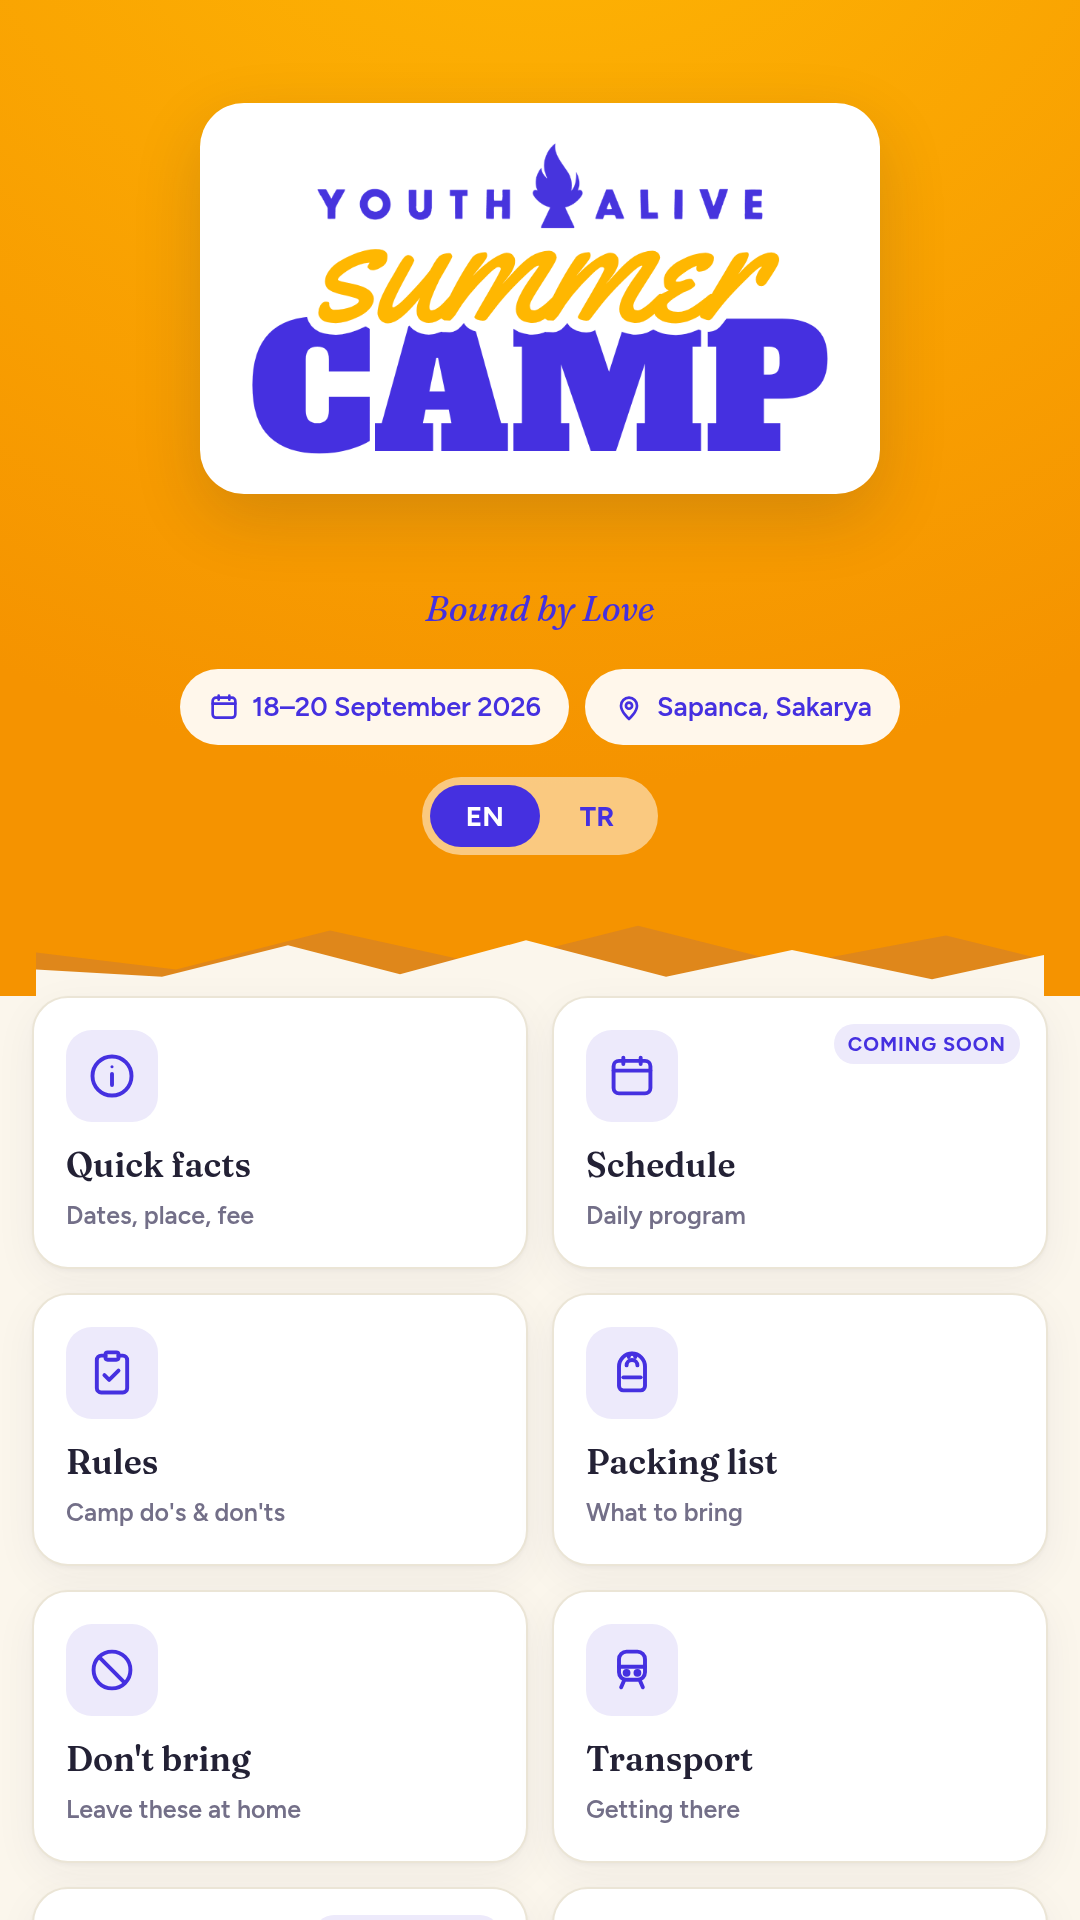
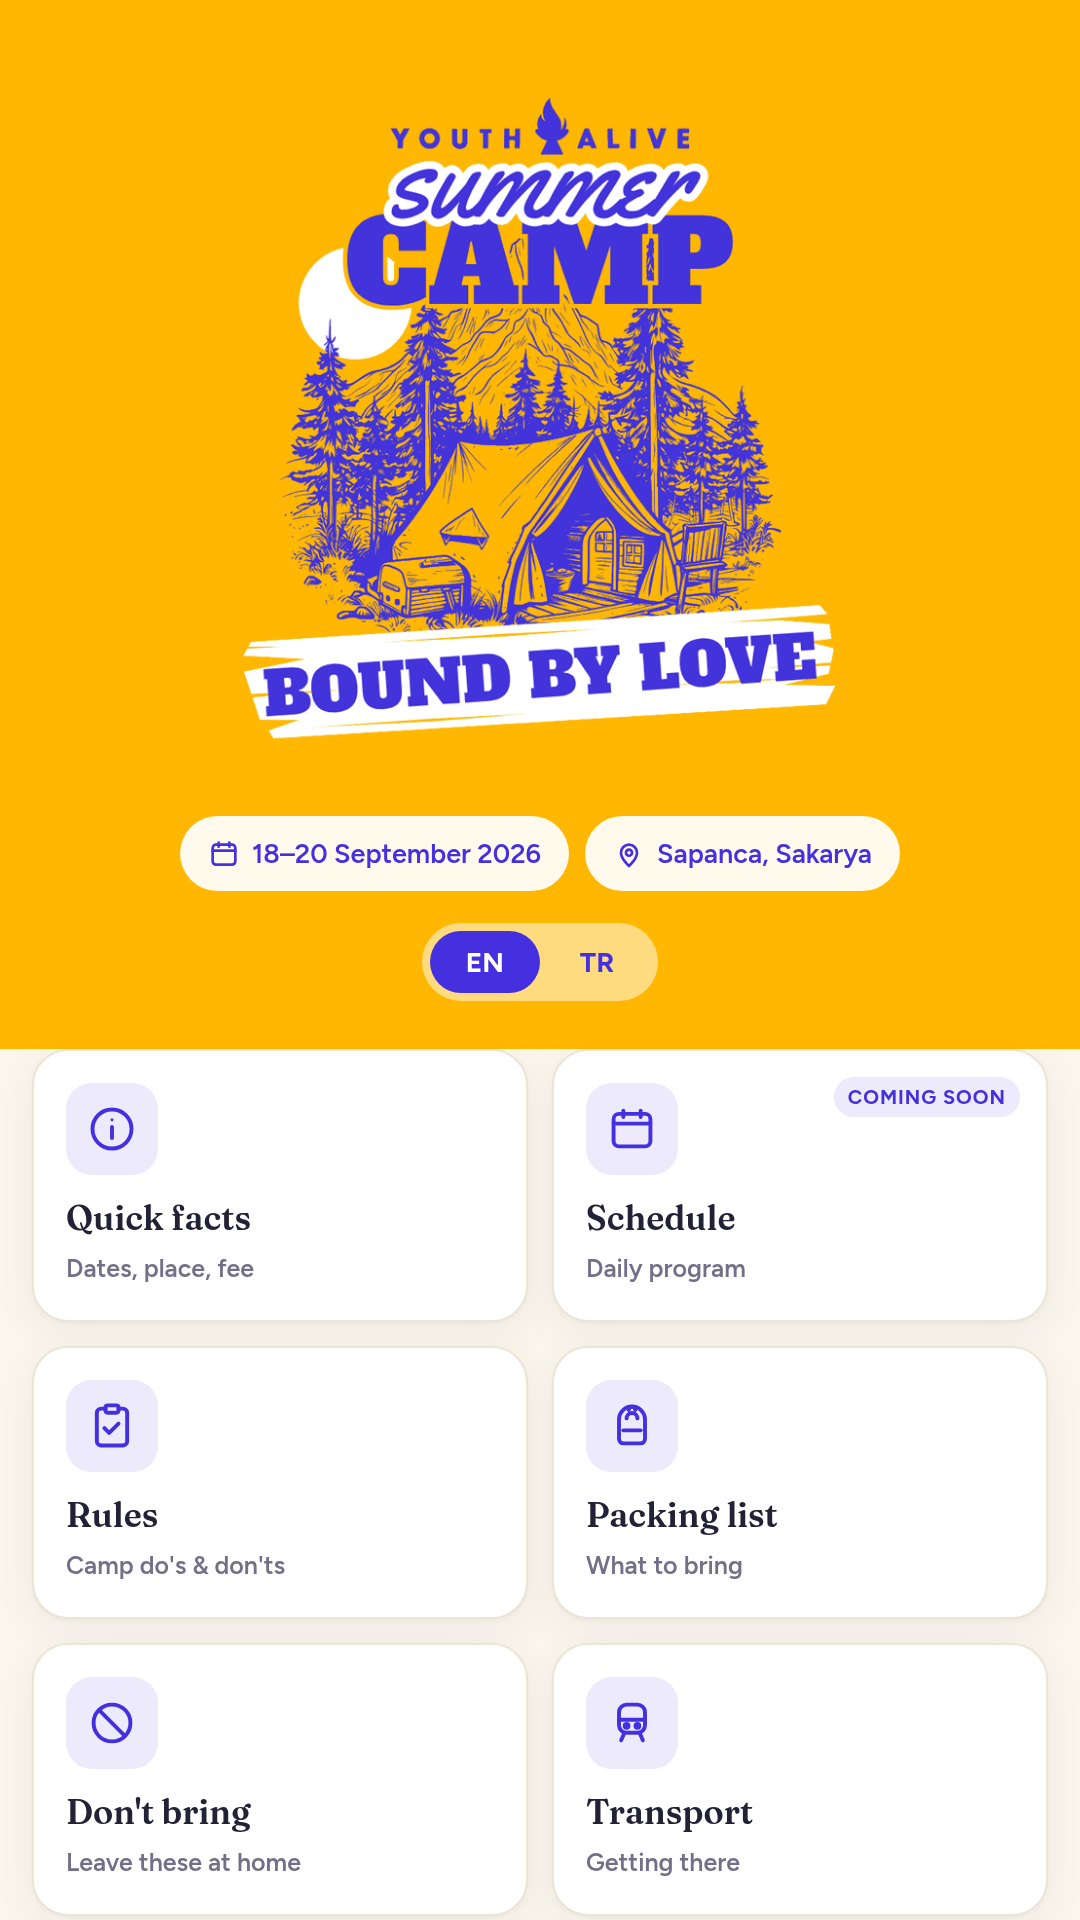
Hero: use official illustrated camp artwork (bilingual EN/TR)
- Replaces the plain logo lockup with the official BOUND BY LOVE / SEVGIYLE BIRLESEN artwork
- Recolored artwork background to exact brand #FFB701 so it blends into the hero (no plate/seam)
- Swaps with language; dropped the redundant mountain ridge; removed unused logo.png
- SW cache -> v9

diff --git a/index.html b/index.html
@@ -55,14 +55,9 @@
   }
 
   /* ---------- Hero ---------- */
-  header.hero{position:relative;text-align:center;
-    background:radial-gradient(135% 130% at 50% -22%, var(--sun-lite) 0%, var(--sun) 74%);
-    padding:calc(30px + env(safe-area-inset-top)) calc(18px + env(safe-area-inset-right)) 0 calc(18px + env(safe-area-inset-left))}
-  .logo-plate{display:inline-block;background:#fff;border-radius:22px;padding:20px 26px;
-    box-shadow:0 12px 34px rgba(35,33,53,.16);max-width:min(84%,340px)}
-  .logo{display:block;width:100%;height:auto}
-  .tagline{font-family:"Fraunces",serif;font-style:italic;font-weight:400;color:var(--indigo);
-    font-size:clamp(15px,4vw,18px);margin:14px 0 0}
+  header.hero{position:relative;text-align:center;background:var(--sun);
+    padding:calc(22px + env(safe-area-inset-top)) calc(18px + env(safe-area-inset-right)) 24px calc(18px + env(safe-area-inset-left))}
+  .art{display:block;width:min(82%,370px);height:auto;margin:0 auto}
   .meta{margin:16px 0 0;display:flex;flex-wrap:wrap;gap:8px;justify-content:center}
   .pill{background:rgba(255,255,255,.92);color:var(--indigo);border-radius:999px;padding:8px 14px;
     font-weight:600;font-size:13.5px;display:inline-flex;gap:6px;align-items:center}
@@ -242,8 +237,7 @@
 
 <div id="home">
 <header class="hero">
-  <h1 class="logo-plate"><img class="logo" src="logo.png" width="778" height="420" alt="Youth Alive Summer Camp"></h1>
-  <div class="tagline" data-i18n="tagline">Bound by Love</div>
+  <h1 style="margin:0"><img class="art" id="hero-art" src="artwork-en.png" width="760" height="760" alt="Youth Alive Summer Camp — Bound by Love"></h1>
   <div class="meta">
     <span class="pill">
       <svg class="ic" viewBox="0 0 24 24"><rect x="3.5" y="5" width="17" height="15" rx="2.5"/><path d="M3.5 9.5h17M8 3.5v3M16 3.5v3"/></svg>
@@ -258,10 +252,6 @@
     <button data-lang="en" onclick="setLang('en')" aria-pressed="true">EN</button>
     <button data-lang="tr" onclick="setLang('tr')" aria-pressed="false">TR</button>
   </div>
-  <svg class="hero-range" viewBox="0 0 1440 80" preserveAspectRatio="none" aria-hidden="true">
-    <path class="back" d="M0,80 L0,44 L200,58 L420,26 L640,54 L860,22 L1080,54 L1300,30 L1440,50 L1440,80 Z"/>
-    <path class="front" d="M0,80 L0,58 L180,64 L360,38 L520,62 L700,34 L900,64 L1080,42 L1280,66 L1440,46 L1440,80 Z"/>
-  </svg>
   </header>
   <main class="wrap"><div class="tiles" id="tiles"></div></main>
 </div>
@@ -645,6 +635,12 @@ function render(){
   });
   document.querySelectorAll("[data-lang]").forEach(b=>
     b.setAttribute("aria-pressed", b.dataset.lang===lang));
+  const art = document.getElementById("hero-art");
+  if (art){
+    art.src = lang==="en" ? "artwork-en.png" : "artwork-tr.png";
+    art.alt = lang==="en" ? "Youth Alive Summer Camp — Bound by Love"
+                          : "Youth Alive Yaz Kampı — Sevgiyle Birleşen";
+  }
   renderTiles();
 }
 

diff --git a/sw.js b/sw.js
@@ -1,11 +1,12 @@
 /* Youth Alive 26 — minimal offline service worker.
    Bump CACHE when you change content so phones get the update. */
-const CACHE = "ya26-v8";
+const CACHE = "ya26-v9";
 const SHELL = [
   "./",
   "./index.html",
   "./manifest.webmanifest",
-  "./logo.png",
+  "./artwork-en.png",
+  "./artwork-tr.png",
   "./icon-192.png",
   "./icon-512.png",
   "./apple-touch-icon.png",

diff --git a/README.md b/README.md
@@ -16,7 +16,7 @@ across WhatsApp messages.
 | `index.html` | The whole app — layout, styles, and **all content** live here (in the `DATA` object). |
 | `manifest.webmanifest` | PWA metadata (name, colors, icon). |
 | `sw.js` | Service worker — caches the page for offline use. |
-| `logo.png` | Youth Alive Summer Camp logo (used in the hero). |
+| `artwork-en.png` / `artwork-tr.png` | Official camp artwork shown in the hero (swaps with language). |
 | `icon-192.png` / `icon-512.png` / `apple-touch-icon.png` | App / home-screen icons (flame emblem on brand gold). |
 | `vercel.json` | Vercel config (`cleanUrls`). |
 
